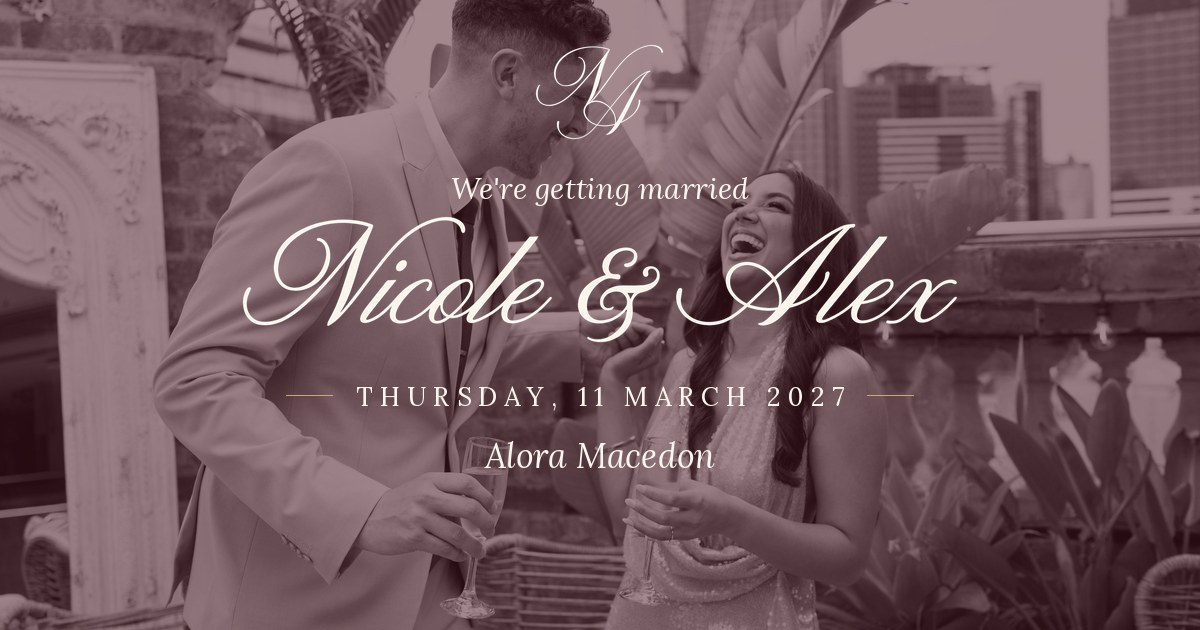
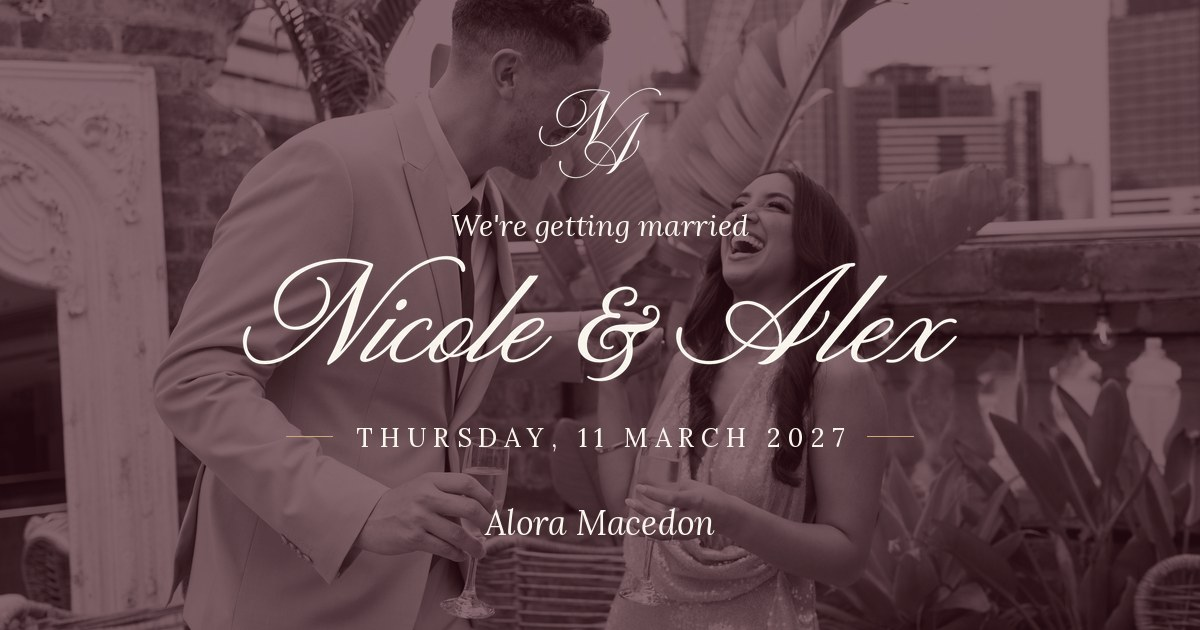
Link preview: match hero wash, centre text, set theme colour
Claude-Session: https://claude.ai/code/session_01JrcSdDxUjFemNrJwbowGnL

diff --git a/src/app/layout.tsx b/src/app/layout.tsx
@@ -79,6 +79,8 @@ export const viewport: Viewport = {
   initialScale: 1,
   minimumScale: 1,
   userScalable: true,
+  // Drives the tinted panel iMessage and other apps draw under a shared link.
+  themeColor: "#4a1521",
 };
 
 export default function RootLayout({ children }: LayoutProps<"/">) {
